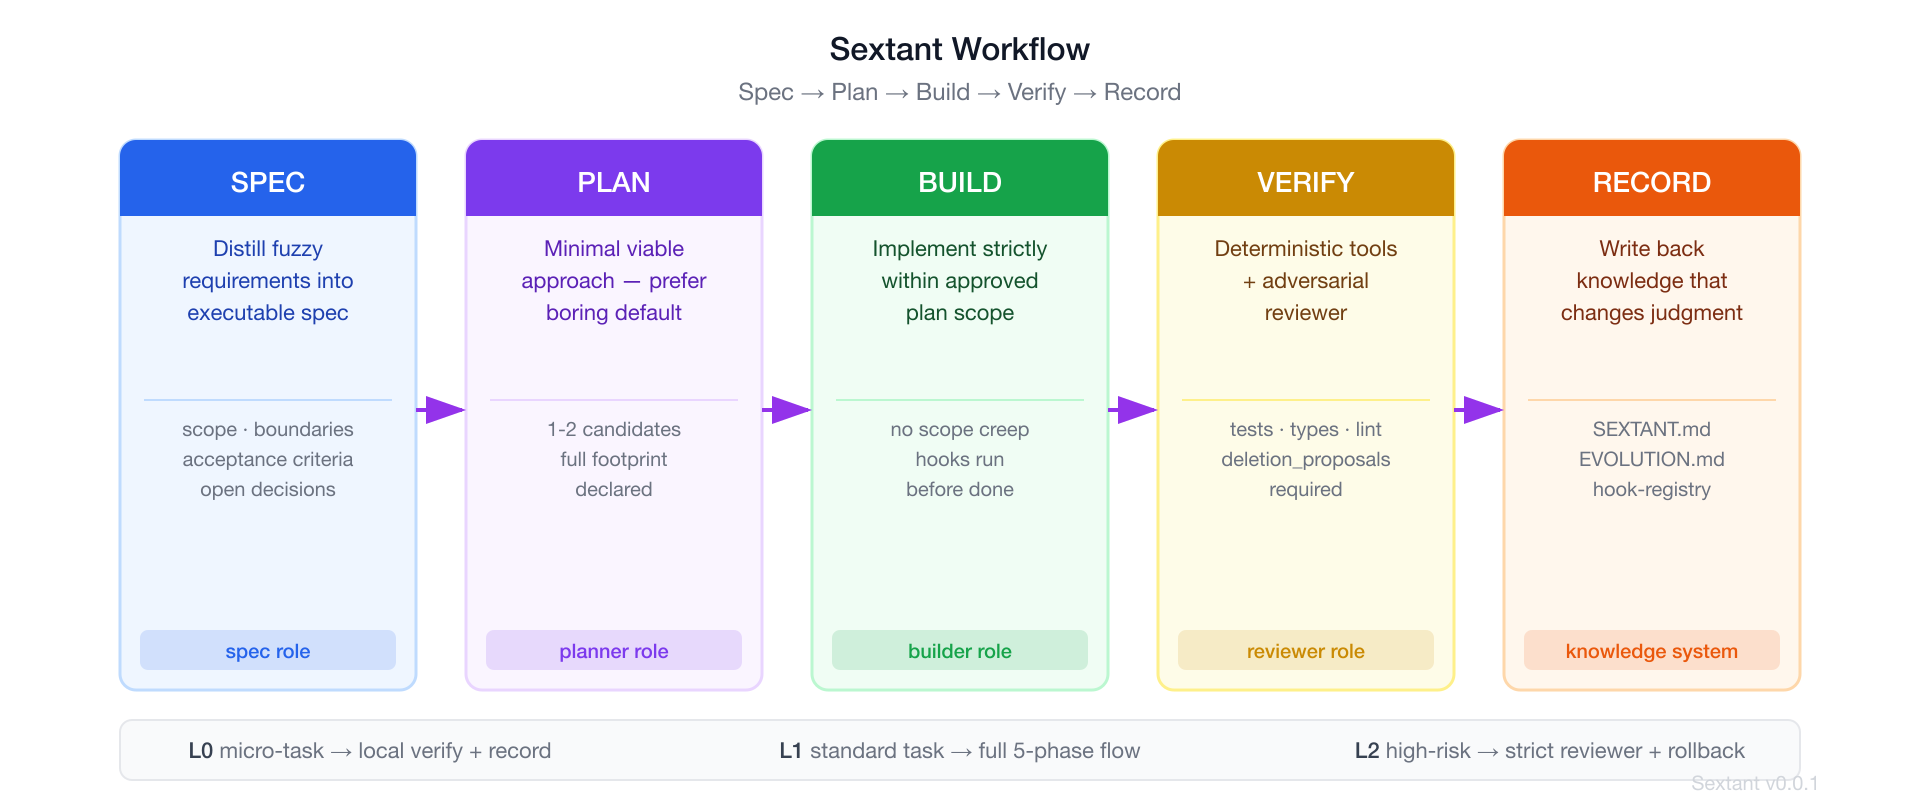
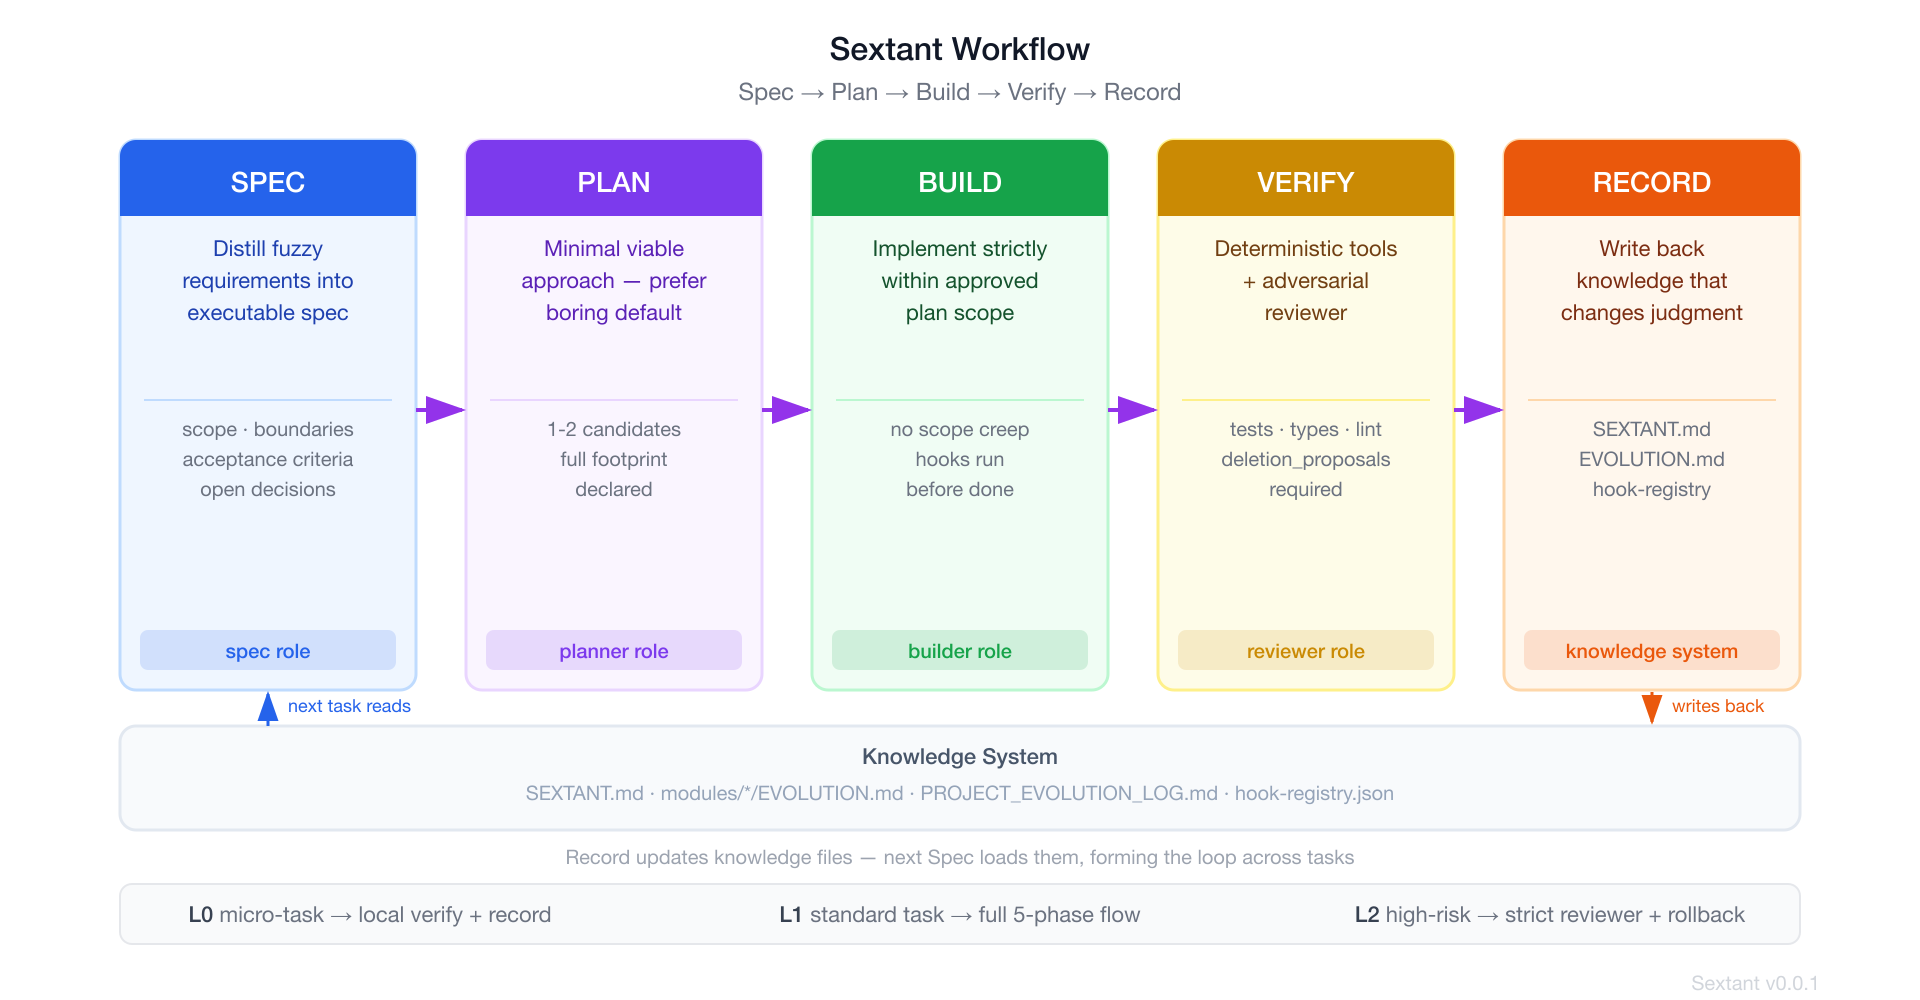
feat: load all knowledge files in sextant-spec and update workflow diagrams
sextant-spec now unconditionally loads SEXTANT.md, PROJECT_EVOLUTION_LOG.md,
all modules/*/EVOLUTION.md and hook-registry.json before invoking the spec
subagent — ensuring past task decisions inform every new spec.

diff --git a/adapters/claude-code/commands/sextant-spec.md b/adapters/claude-code/commands/sextant-spec.md
@@ -2,8 +2,8 @@
 
 > **Future CLI equivalent:** `sextant spec`
 
-Starts the Spec stage for a new task. Classifies the task level, then invokes the
-`sextant-spec` subagent to produce a structured spec artifact.
+Starts the Spec stage for a new task. Classifies the task level, loads all project knowledge,
+then invokes the `sextant-spec` subagent to produce a structured spec artifact.
 
 ## Usage
 
@@ -27,17 +27,29 @@ If no task description is provided, ask the user: "What do you want to accomplis
 3. **For L0 tasks**: Ask if the user wants to proceed with full Spec stage or use `--force-l0`
    to skip Spec and Plan (going directly to Build). If skipping, create a minimal trace record.
 
-4. **Invoke `sextant-spec` subagent** with:
+4. **Load knowledge context**: Load all project knowledge files before invoking the spec
+   subagent. This is how past tasks inform new ones — every completed task's Record stage
+   writes to these files, and every new Spec reads them. Load and pass to subagent:
+   - `SEXTANT.md` (required — current technical constraints, defaults, explicit no-go rules)
+   - `PROJECT_EVOLUTION_LOG.md` if present (cross-module decisions and architecture history)
+   - All `modules/*/EVOLUTION.md` files for any module the task touches (glob all, pass relevant ones)
+   - `hook-registry.json` if present (deterministic guardrails already established)
+
+   If a file doesn't exist yet, skip it — do not error. Missing files mean no history yet.
+
+5. **Invoke `sextant-spec` subagent** with:
    - The task description and task_id
-   - The path to `SEXTANT.md` (look in the project root)
-   - Paths to relevant `modules/*/EVOLUTION.md` if the task mentions a specific module
+   - All knowledge files loaded in step 4
+   - Instruction: treat the knowledge context as established constraints, not suggestions
 
-5. **Save artifact**: Write the subagent's output to `.sextant/traces/<task_id>/spec.md`
+6. **Save artifact**: Write the subagent's output to `.sextant/traces/<task_id>/spec.md`
 
-6. **Prompt for next step**: "Spec complete. Run `/sextant-review --stage spec` to get reviewer
+7. **Prompt for next step**: "Spec complete. Run `/sextant-review --stage spec` to get reviewer
    feedback, or `/sextant-plan` if you want to skip spec review (L0 only)."
 
 ## Notes
 
 - Do not proceed to Plan until the spec has been reviewer-approved (Gate 1).
 - Task level is set here and does not change without `--force-*`.
+- Knowledge loading is unconditional — always load all available files, not just when the
+  task description mentions a specific module. Past decisions apply across the board.
